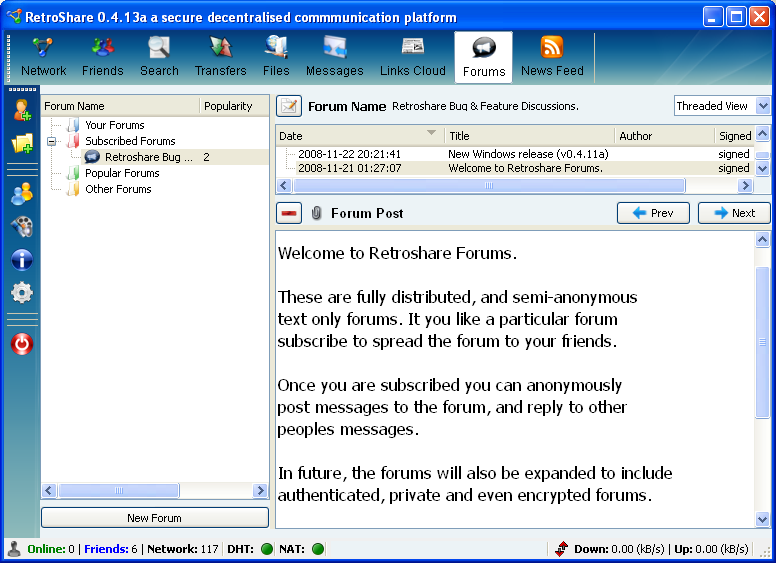
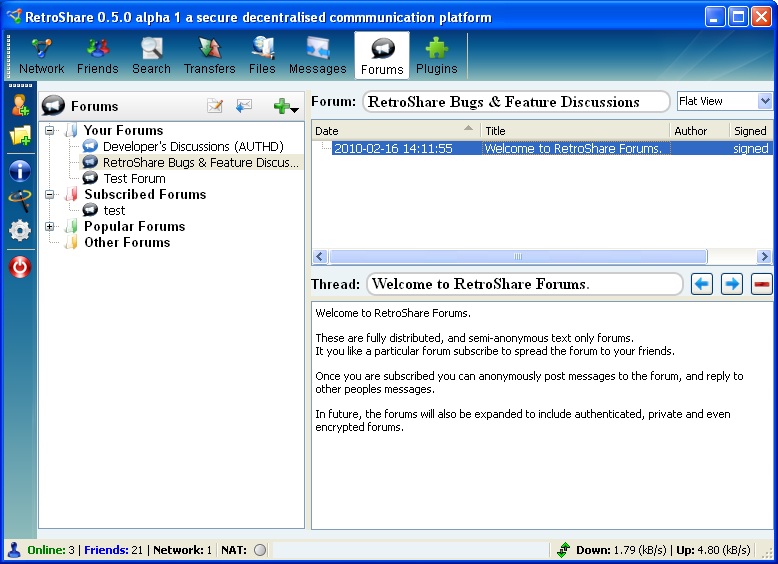
update screenshots
git-svn-id: svn://svn.code.sf.net/p/retroshare/code@2347 b45a01b8-16f6-495d-af2f-9b41ad6348cc

Changed region(s): [[0.0, 0.0, 1.0, 0.9964], [0.7113, 0.9663, 0.9588, 0.9964], [0.0, 0.0, 0.0309, 0.0302]]

diff --git a/www/screenshots.html b/www/screenshots.html
@@ -94,7 +94,19 @@
 
             <!-- Article -->
             <div class="article">
-                <h2><span>Screenshos</span></h2>
+                <h2><span>RetroShare 0.5.0 Screenshots</span></h2>
+                
+                <h3>RetroShare Profile Generation Window</h3>
+
+
+                <a href="pics/profilegeneration.png" target="_blank"> <img src="pics/profilegeneration.png" alt="Profile" width="480" height="335" style="float: center; margin-right: 5px;"/></a><p>
+                </p>
+                
+                
+                <h3>RetroShare Login Window</h3>
+
+                <a href="pics/login.png" target="_blank"><img src="pics/login.png" alt="loginWindow"  style="float: center; margin-right: 5px;"/></a><p>
+                </p>
           
  
                 <h3>RetroShare Transfers</h3>
@@ -110,7 +122,7 @@
 
                 <h3>RetroShare Friends</h3>
 
-                <a href="pics/mainwindow.png" target="_blank"> <img src="pics/mainwindow.png" alt="MainWindow"  width="480" height="335" style="float: center; margin-right: 5px;"/></a><p>
+                <a href="pics/retrosharefriends.png" target="_blank"> <img src="pics/retrosharefriends.png" alt="Friends"  width="480" height="335" style="float: center; margin-right: 5px;"/></a><p>
                 </p>
 			
 			
@@ -119,16 +131,30 @@
                 <a href="pics/retroshareforums.png" target="_blank"> <img src="pics/retroshareforums.png" alt="Forums"  width="480" height="335" style="float: center; margin-right: 5px;"/></a><p>
                 </p>
                 
-                <h3>RetroShare Login Window</h3>
+                <h3>RetroShare Search</h3>
 
-                <a href="pics/login.png" target="_blank"><img src="pics/login.png" alt="loginWindow"  style="float: center; margin-right: 5px;"/></a><p>
+                <a href="pics/retrosharesearch.png" target="_blank"> <img src="pics/retrosharesearch.png" alt="Forums"  width="480" height="335" style="float: center; margin-right: 5px;"/></a><p>
+                </p>
+                
+                <h3>RetroShare Message Composer</h3>
+
+                <a href="pics/message_composer.png" target="_blank"> <img src="pics/message_composer.png" alt="Messages"  width="480" height="335" style="float: center; margin-right: 5px;"/></a><p>
                 </p>
 
 
                 <h3>RetroShare Options</h3>
 
 
-                <a href="pics/server_options.png" target="_blank"> <img src="pics/server_options.png" alt="Options-Server" style="float: center; margin-right: 5px;"/></a><p>
+                <a href="pics/server_options.png" target="_blank"> <img src="pics/server_options.png" alt="Options-Server" width="480" height="335" style="float: center; margin-right: 5px;"/></a><p>
+                </p>
+                
+                <h3>RetroShare Plugins</h3>
+
+
+                <a href="pics/plugins_colorcode.png" target="_blank"> <img src="pics/plugins_colorcode.png" alt="Plugins" width="480" height="335" style="float: center; margin-right: 5px;"/></a><p>
+                </p>
+                
+                <a href="pics/plugins_solocards.png" target="_blank"> <img src="pics/plugins_solocards.png" alt="Plugins" width="480" height="335" style="float: center; margin-right: 5px;"/></a><p>
                 </p>
                 
                 <!-- Piwik -->

diff --git a/www/downloads_zh.html b/www/downloads_zh.html
@@ -94,7 +94,36 @@
 
             <!-- Article -->
             <div class="article">
-                <h2>下载</h2>
+                <h2>RetroShare 0.5.0 alpha 1</h2>
+
+                <b>Warning</b>:This is an alpha version, some bugs may remain. You are invited to report them to
+                the dev team with as much information as possible on how to reproduce them!
+                
+                <h3>Microsoft Windows</h3>
+
+                <p><img src="img/kpackage.png" alt="Windows" style="float: left; margin-right: 5px;"/>
+                </p>
+                <a href="http://sourceforge.net/projects/retroshare/files/RetroShare/0.5.0%20alpha%201/RetroShare_0.5.0_alpha_1_2282_setup.exe/download">RetroShare_0.5.0_alpha_1_2282_setup.exe</a> Installer<br>
+                <a href="http://sourceforge.net/projects/retroshare/files/RetroShare/0.5.0%20alpha%201/RetroShare_0.5.0_alpha_1_2282.zip/download">RetroShare_0.5.0_alpha_1_2282.zip</a> Package<br>
+
+                <p>&nbsp;</p>
+                
+                <h3>Ubuntu 版本</h3>
+
+                <p><img src="img/ubuntulogo.png" alt="Ubuntu" style="float: left; margin-right: 5px;"/>
+                <a href="http://sourceforge.net/projects/retroshare/files/RetroShare/0.5.0%20alpha%201/RetroShare_0.5-alpha1.2286_ubuntu_karmic_i386.deb/download">RetroShare_0.5-alpha1.2286_ubuntu_karmic_i386.deb</a> Package<br/>
+                <a href="http://sourceforge.net/projects/retroshare/files/RetroShare/0.5.0%20alpha%201/RetroShare_0.5-alpha1.2282_ubuntu_karmic_amd64.deb/download">RetroShare_0.5-alpha1.2282_ubuntu_karmic_amd64.deb</a> Package<br/>
+                </p>
+                <br>
+                
+                <h3>Source tarballs</h3>
+
+                <img src="img/package.png" alt="Sources" style="float: left; margin-right: 5px;"/>
+                <p><a href="http://retroshare.svn.sourceforge.net/viewvc/retroshare/trunk.tar.gz?view=tar&pathrev=2282">trunk.tar.gz</a>
+                </p>
+                <p>&nbsp;</p>
+                
+                <h2>RetroShare 0.4.x</h2>
 
                 <h3>Windows 版本</h3>
 
